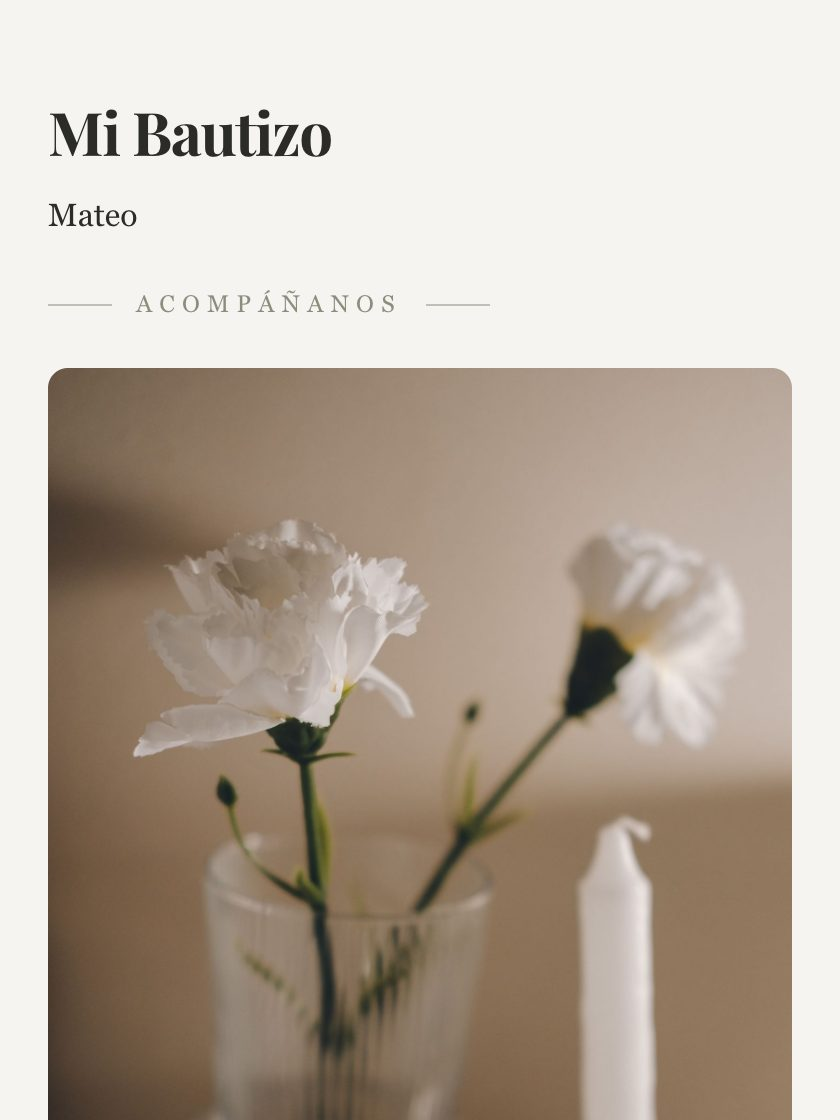
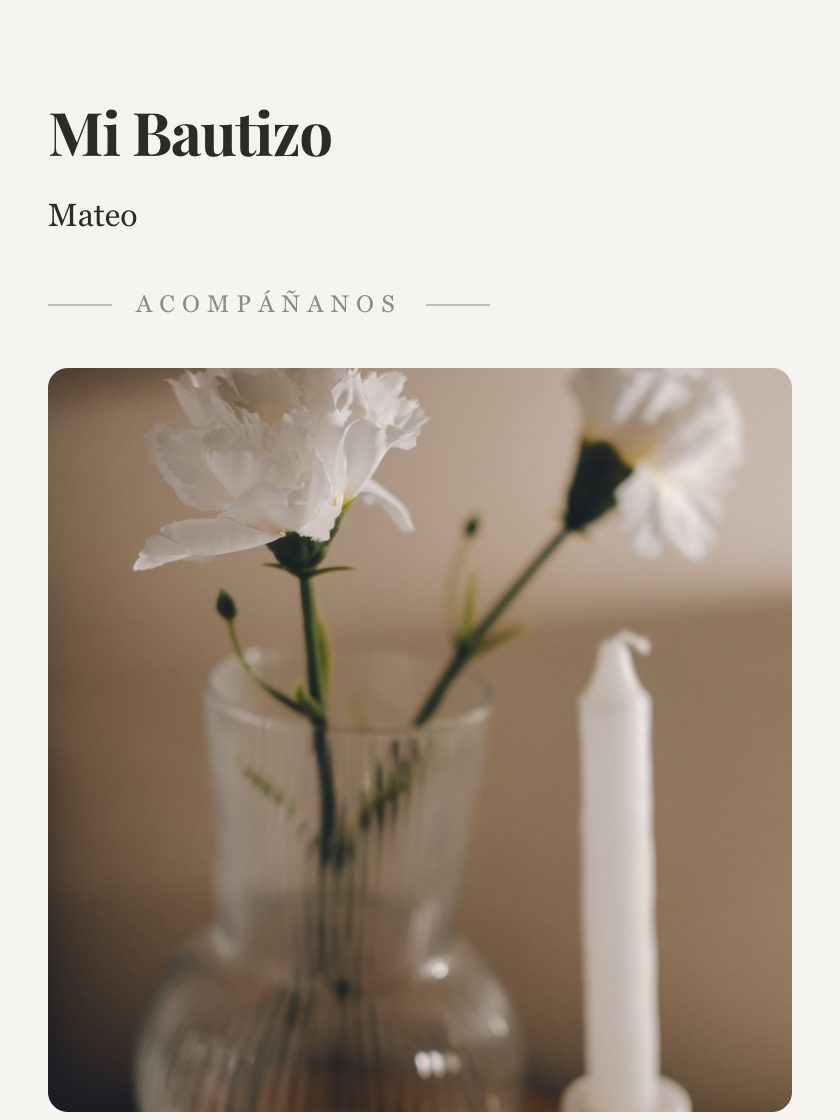
chore(miniaturas): las 6 de la 0038 — el recorte de la tarjeta queda en 0 %
El dev aplico la 0038. Verificado por efecto contra la BD ANTES de capturar: las
6 a `imageRatio` 1/1 sobre fuentes 1600x1600, o sea 0 % de recorte por `cover`,
figura de 372 px que cabe en los 376 disponibles, y **cero figuras verticales
quedan en todo el catalogo activo**.

Capturadas contra un `next start` propio en el 3211 (log sin EADDRINUSE, PID
verificado por `lsof` + `ps -o lstart=`, arrancado 4 s antes).

RECORTE REAL medido en el DOM con Playwright, no solo con el modelo estatico:

  plantilla              antes   ahora
  boda-papel-y-lino       43 %    0 %
  bautizo-cera-blanca     33 %    0 %
  boda-marco-nuestro      33 %    0 %
  comunion-cinta          33 %    0 %
  revelacion-coral        33 %    0 %
  xv-corona               24 %    0 %

Figura 372x372 arrancando en y=184, visible entera en los 560 de la tarjeta. El
modelo estatico del guard habia predicho exactamente 372 px: acerto al pixel.

Las 6 cambiaron de bytes, y MIRADAS una por una el objeto se lee completo:
  · boda-marco-nuestro   los TRES pisos y la base dorada (antes: un trozo de
    pisos blancos que no se leia como pastel)
  · boda-papel-y-lino    las DOS alianzas (antes el 43 % de recorte dejaba una)
  · bautizo-cera-blanca  el jarron y el cuerpo de la vela (antes solo puntas de
    flor y la punta de la vela)
  · xv-corona            la tiara entera
  · comunion-cinta       el caliz con patena, lino y base
  · revelacion-coral     los globos
[…]

diff --git a/src/lib/invitations/template-preview.ts b/src/lib/invitations/template-preview.ts
@@ -67,4 +67,4 @@ export const ESCALA_CAPTURA = 2;
  * optimizador y la del navegador, y evita tener que renombrar 50 archivos o
  * volver a escribir 50 URLs en la BD en cada regeneración.
  */
-export const REVISION_MINIATURAS = "202609090228";
+export const REVISION_MINIATURAS = "202609090258";
